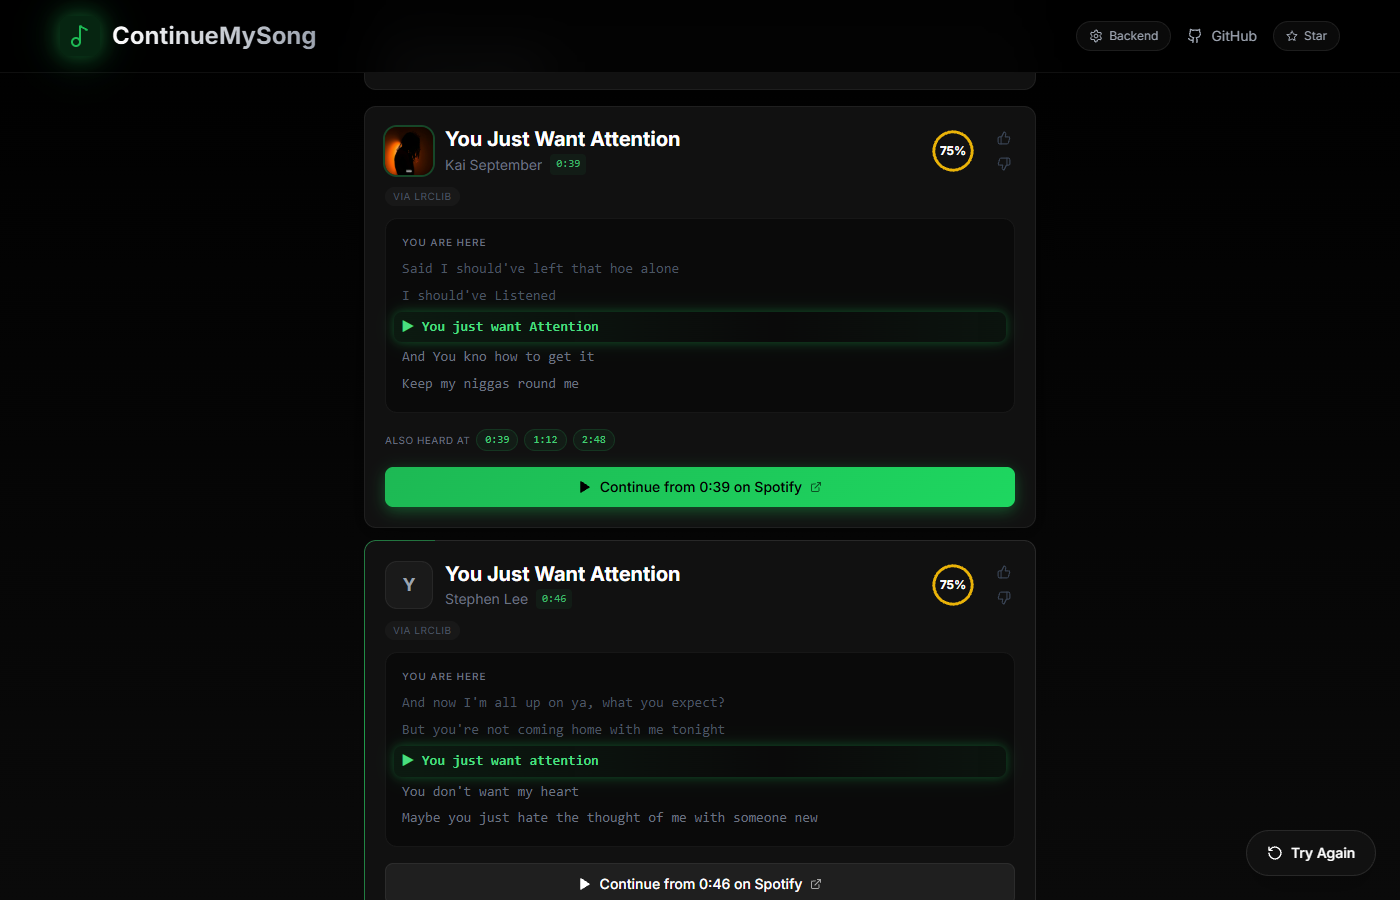
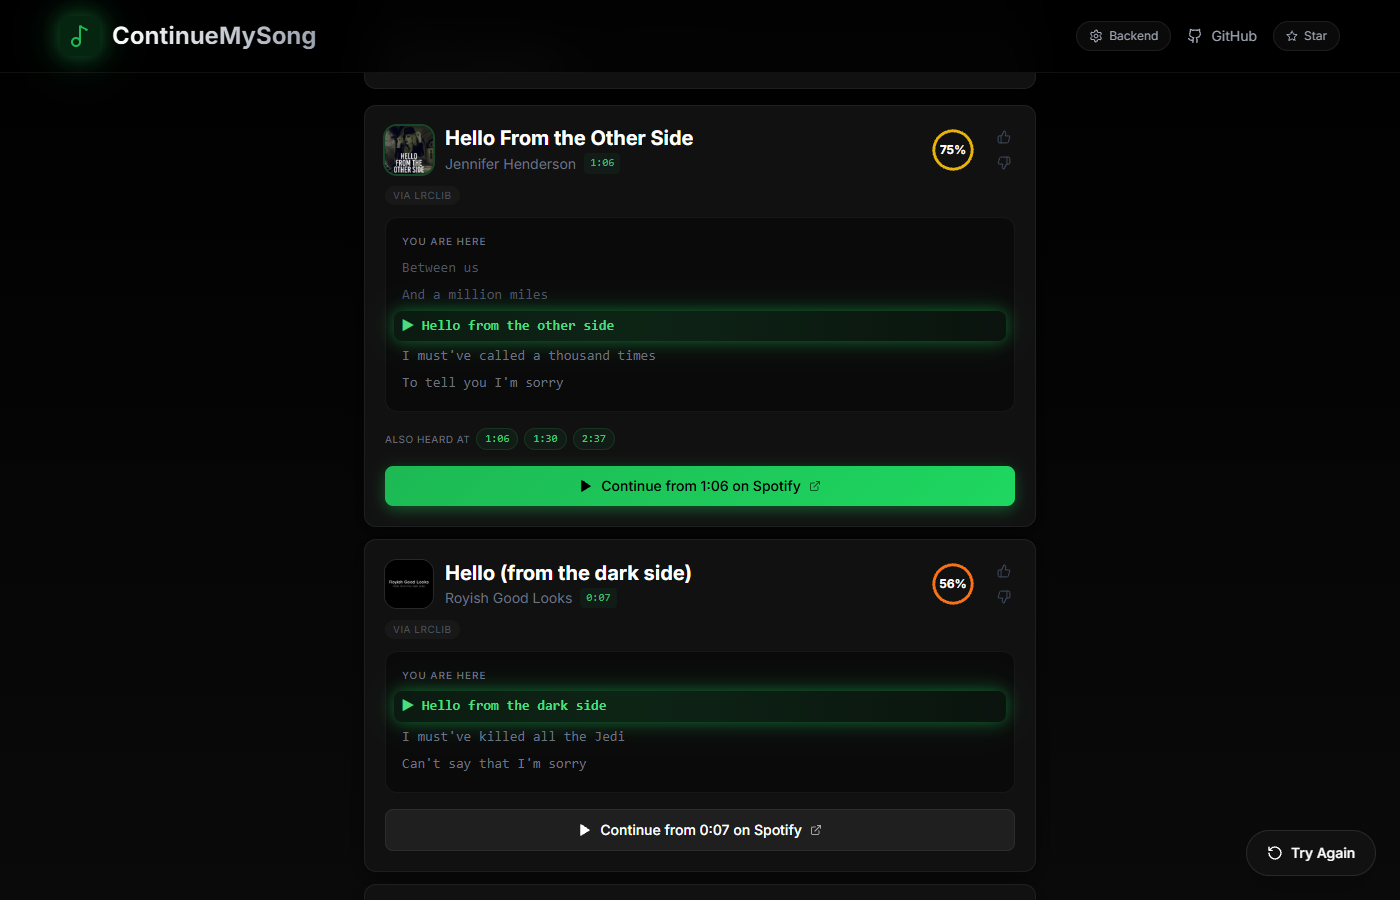
docs: expand README gallery with settings modal + honest capacity note

diff --git a/README.md b/README.md
@@ -80,10 +80,22 @@ If you run your own backend elsewhere, set it in **Backend settings** (top right
 
 ## Screenshots
 
-| Voice Mode | Lyrics Mode | Results |
+Live capture from the GitHub Pages site — real browser search via LRCLIB + iTunes, zero backend.
+
+| Voice Mode | Lyrics Mode | Lyrics Result |
 |:---:|:---:|:---:|
 | ![Voice](docs/screenshots/homepage.png) | ![Lyrics](docs/screenshots/lyrics-input.png) | ![Results](docs/screenshots/results.png) |
 
+<details>
+<summary>Backend settings (click to expand)</summary>
+<br>
+
+![Backend settings](docs/screenshots/settings.png)
+
+*Gear icon top-right — test and save a custom backend URL. Lyrics tab works immediately without one; voice falls back to in-browser speech recognition.*
+</details>
+
 ## Demo
 
-**Live site:** [shashwat1729.github.io/lyricspot/](https://shashwat1729.github.io/lyricspot/)
+- **Live site:** [shashwat1729.github.io/lyricspot/](https://shashwat1729.github.io/lyricspot/) — Lyrics tab works with zero setup; voice needs a backend or Chrome's built-in speech recognition.
+- **Interactive walkthrough:** [shashwat1729.github.io/lyricspot/demo/](https://shashwat1729.github.io/lyricspot/demo/) — 6-step slideshow generated from the live build.
